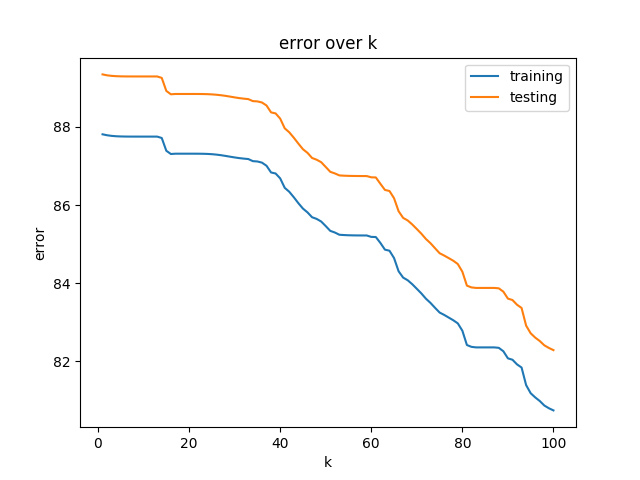
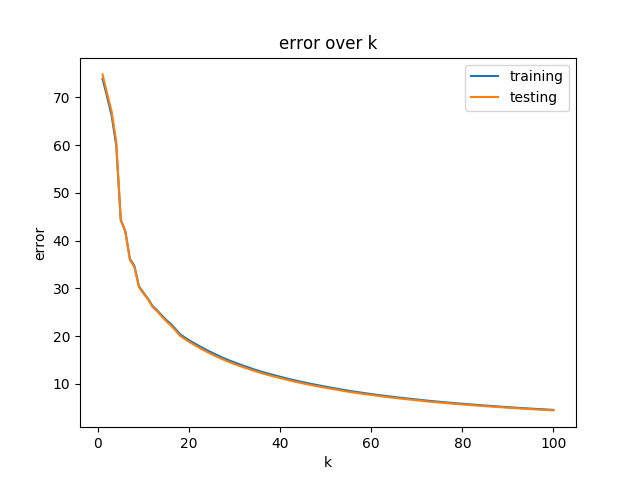
somewhat fixed error?

diff --git a/hw4-code/src/pca.py b/hw4-code/src/pca.py
@@ -34,7 +34,7 @@ def part_c(X_train, X_test):
   e_train, v_train = part_a(X_train)
 
   for i in range(c.k):
-    recon_train = (v_train[:i, ].T).dot(v_train[:i, ])
+    recon_train = (v_train[:, :i+1]).dot(v_train[:, :i+1].T)
     recon_test = recon_train.dot(X_test.T).T
     recon_train = recon_train.dot(X_train.T).T
 
@@ -92,14 +92,14 @@ def main():
                    e_list[29], e_list[49]]) + "\n")
   output.write(str(sum(e_list)) + "\n")
 
-  # train_mse_data, test_mse_data, frac_data = part_c(
-  #     X_train, X_test)
-  # h.plot_multiple("error over k", "a3_cerr", "k", "error", 
-  #                 [train_mse_data, test_mse_data], c.tt_list)
-  # h.plot_multiple("obj over k", "a3_cobj", "k", "obj", 
-  #                 [frac_data], ["frac"])
+  train_mse_data, test_mse_data, frac_data = part_c(
+      X_train, X_test)
+  h.plot_multiple("error over k", "a3_cerr", "k", "error", 
+                  [train_mse_data, test_mse_data], c.tt_list)
+  h.plot_multiple("obj over k", "a3_cobj", "k", "obj", 
+                  [frac_data], ["frac"])
 
-  # part_d(v_list) 
+  part_d(v_list) 
 
   part_e(X_train, v_list)
 
